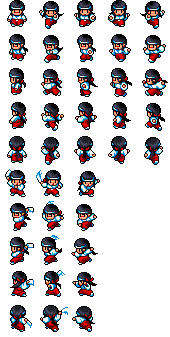
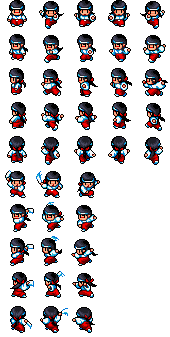
atacando

Changed region(s): [[0.2059, 0.5045, 0.5882, 1.0], [0.0294, 0.5045, 0.2059, 1.0]]

diff --git a/src/Personaje.cpp b/src/Personaje.cpp
@@ -50,16 +50,30 @@ void Personaje::update()
 	timeFrame += Video::getInstance()->getDeltaTime();
 	if (timeFrame >= maxTimeFrame) {
 		frame++;
-		if (frame > 4) frame = 0;
+		int maxf = 4;
+		if (_atacando) {
+			maxf = 2;
+			if (frame > 2) frame = 0;
+		}
+		if (frame > maxf) frame = 0;
 		timeFrame = 0;
 	}
 	
 	if (InputManager::getInstance()->getAtaque() == true) {
 
-		if (_atacando == false) {
-			SizeGfx.x = 0;
-			_atacando = true;
-		}
+		//if (_atacando == false) {
+		//	SizeGfx.x = 0;
+ 			_atacando = true;
+		//}
+		//collider(6);
+
+	}
+	if (!InputManager::getInstance()->getAtaque() == true) {
+
+		//if (_atacando == false) {
+		//	SizeGfx.x = 0;
+		_atacando = false;
+		//}
 		//collider(6);
 
 	}
@@ -113,6 +127,11 @@ void Personaje::update()
 			
 			
 			
+			if (_atacando==true) {
+
+				SizeGfx.y += (27 * 5) + (7 * 5);
+				//_atacando = false;
+			}
 	
 			//colocar animacao
 		}
@@ -124,11 +143,6 @@ void Personaje::update()
 				SizeGfx.y = 0;
 			}
 			
-			if (_atacando==true) {
-
-				SizeGfx.y = (27 * 6) + (7 * 6);
-				_atacando = false;
-			}
 			
 		}
 		break;
@@ -137,7 +151,12 @@ void Personaje::update()
 			SizeGfx.x = 0;
 			SizeGfx.y = (27*4)+(7*4);
 
-	
+			if (_atacando == true) {
+
+				SizeGfx.y += (27 * 5) + (7 * 5);
+				//_atacando = false;
+			}
+
 			//colocar animacao
 		}
 
@@ -150,6 +169,11 @@ void Personaje::update()
 		if (_estado == MOVE) {
 			SizeGfx.x = 0;
 			SizeGfx.y = (27 * 2) + (7 * 2);
+			if (_atacando == true) {
+
+				SizeGfx.y += (27 * 5) + (7 * 5);
+				//_atacando = false;
+			}
 			//colocar animacao
 		}
 
@@ -162,6 +186,11 @@ void Personaje::update()
 		if (_estado == MOVE) {
 			SizeGfx.x = 0;
 			SizeGfx.y = (27 * 2) + (7 * 2);
+			if (_atacando == true) {
+
+				SizeGfx.y += (27 * 5) + (7 * 5);
+				//_atacando = false;
+			}
 			//colocar animacao
 		}
 
